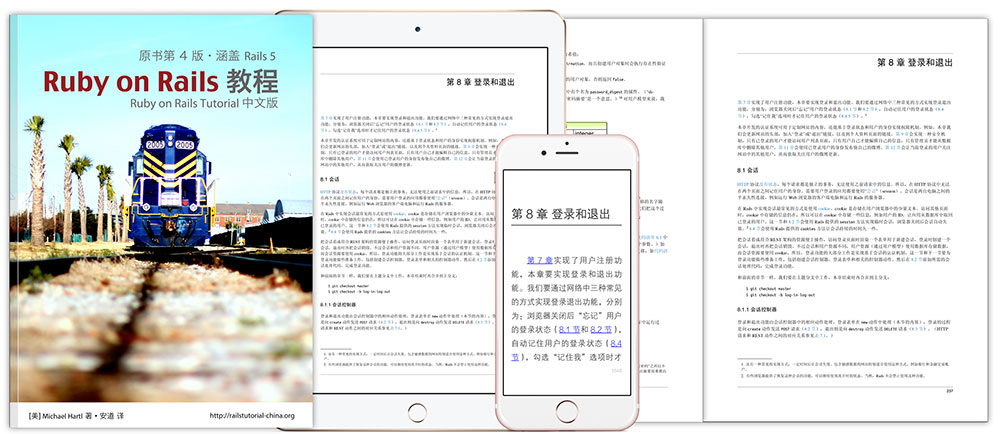
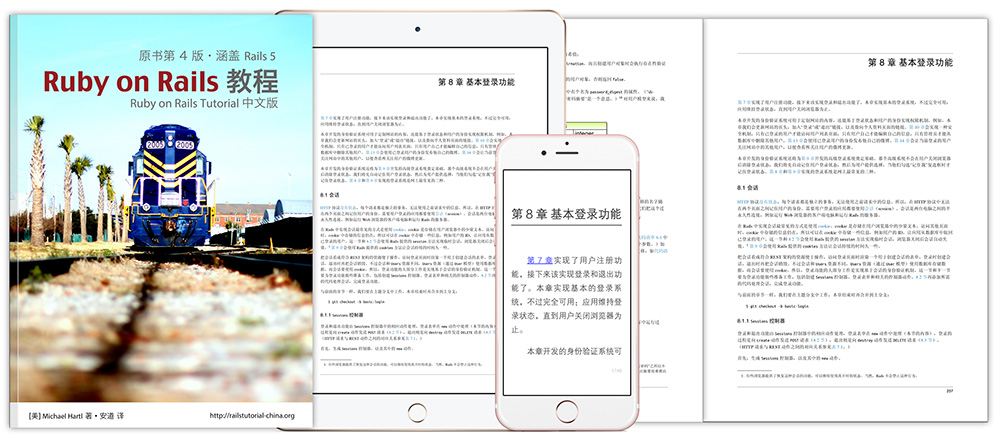
Prepare for 4th edition

diff --git a/_includes/toc.html b/_includes/toc.html
@@ -4,7 +4,7 @@
         <div class="col-xs-12 col-sm-6">
             <ul>
                 <li>
-                    <h3>第 1 章 从零开始,完成一次部署</h3>
+                    <h3>第 1 章 从零开始，完成一次部署</h3>
                     <p>搭建 Rails 开发环境，介绍 Git 用法，体验从创建到部署的全过程。</p>
                 </li>
                 <li>
@@ -13,7 +13,7 @@
                 </li>
                 <li>
                     <h3>第 3 章 基本静态的页面</h3>
-                    <p>从静态页面入手，然后添加动态内容，并且初次尝试测试驱动开发。</p>
+                    <p>从静态页面入手，添加简单的动态内容，初次尝试测试驱动开发。</p>
                 </li>
                 <li>
                     <h3>第 4 章 Rails 背后的 Ruby</h3>
@@ -24,8 +24,12 @@
                     <p>使用 Asset Pipeline 增强布局，然后实现用户注册的第一步。</p>
                 </li>
                 <li>
-                    <h3>第 6 章 用户模型</h3>
+                    <h3>第 6 章 用户建模</h3>
                     <p>创建用户模型，学习模型验证，并为用户提供安全的登录密码。</p>
+                </li>
+                <li>
+                    <h3>第 7 章 注册</h3>
+                    <p>在 Rails 中使用表单注册用户，处理注册成功和失败两种情况。</p>
                 </li>
             </ul>
         </div>
@@ -33,27 +37,31 @@
         <div class="col-xs-12 col-sm-6">
             <ul>
                 <li>
-                    <h3>第 7 章 注册</h3>
-                    <p>在 Rails 中使用表单注册用户，处理注册成功和失败两种情况。</p>
+                    <h3>第 8 章 基本登录功能</h3>
+                    <p>使用 Rails 会话实现登录和退出功能，用户关闭浏览器后自动退出。</p>
                 </li>
                 <li>
-                    <h3>第 8 章 登录和退出</h3>
-                    <p>使用 Rails 会话实现登录、退出，以及记住登录状态功能。</p>
+                    <h3>第 9 章 高级登录功能</h3>
+                    <p>实现持久会话，让浏览器记住登录状态，关闭浏览器后依然有效。</p>
                 </li>
                 <li>
-                    <h3>第 9 章 更新,显示和删除用户</h3>
-                    <p>更新用户的个人资料，限制用户能执行的操作，再实删除功能。</p>
+                    <h3>第 10 章 更新，显示和删除用户</h3>
+                    <p>更新用户的个人资料，限制用户能执行的操作，再实删除用户功能。</p>
                 </li>
                 <li>
-                    <h3>第 10 章 账户激活和密码重设</h3>
-                    <p>使用 Rails 的邮件程序发送账户激活和密码重设邮件。</p>
+                    <h3>第 11 章 账户激活</h3>
+                    <p>使用 Rails 的邮件程序发送账户激活邮件，激活用户的账户。</p>
                 </li>
                 <li>
-                    <h3>第 11 章 用户的微博</h3>
+                    <h3>第 12 章 重设密码</h3>
+                    <p>使用 Rails 的邮件程序发送重设密码邮件，重新设定用户的密码。</p>
+                </li>
+                <li>
+                    <h3>第 13 章 用户的微博</h3>
                     <p>创建微博模型，将其关联到用户模型上，并实现微博相关的操作。</p>
                 </li>
                 <li>
-                    <h3>第 12 章 关注用户</h3>
+                    <h3>第 14 章 关注用户</h3>
                     <p>实现社交网站的核心功能——关注，进一步学习 Rails 模型关联。</p>
                 </li>
             </ul>

diff --git a/_includes/faq.html b/_includes/faq.html
@@ -34,7 +34,7 @@
                 </li>
                 <li>
                     <h3>这本书有附带的源码吗？在哪里下载？</h3>
-                    <p>本书附带的源码托管在 GitHub 中，仓库名为 <a href="https://bitbucket.org/{{ site.repo_name }}" title="附带源码" target="_blank">{{ site.repo_name }}</a>。</p>
+                    <p>本书附带的源码托管在 Bitbucket 中，仓库名为 <a href="https://bitbucket.org/{{ site.repo_name }}" title="附带源码" target="_blank">{{ site.repo_name }}</a>。</p>
                 </li>
                 <li>
                     <h3>我可以把自己购买的电子书分享给别人吗？</h3>
@@ -42,7 +42,7 @@
                 </li>
                 <li>
                     <h3>阅读这本书的过程中遇到问题怎么办？</h3>
-                    <p>如果您遇到问题，可以在本书的<a href="{{ site.selfstore_url }}/topics" title="{{ site.title }}讨论区" target="_blank">讨论区</a>发帖，我会尽量帮您解决。</p>
+                    <p>如果您遇到问题，可以在本书的<a href="{{ site.selfstore_url }}/topics" title="{{ site.title }}讨论区" target="_blank">讨论区</a>发帖，我会尽量帮您解决。此外也可以到 <a href="https://ruby-china.org" title="Ruby China" target="_blank">Ruby China</a> 发帖，寻求更多人的帮助。</p>
                 </li>
             </ul>
         </div>

diff --git a/index.html b/index.html
@@ -6,7 +6,7 @@ body_class: home-page
 <section id="banner" class="row banner">
     <div class="col-xs-12 text-xs-center">
         <h1 class="book-title">Ruby on Rails 教程<span class="book-edition">（原书第 4 版）</span></h1>
-        <p class="book-subtitle">通过 Rails 学习 Web 开发</p>
+        <p class="book-subtitle">通过 Rails 5 学习 Web 开发</p>
     </div>
 </section>
 
@@ -17,9 +17,9 @@ body_class: home-page
         </div>
 
         <div class="formats">
-            <img src="{{ site.baseurl }}/assets/images/pdf.png" width="60" alt="PDF" title="PDF 格式" />
-            <img src="{{ site.baseurl }}/assets/images/epub.png" width="60" alt="ePub" title="ePub 格式" />
-            <img src="{{ site.baseurl }}/assets/images/mobi.png" width="60" alt="mobi" title="mobi 格式" />
+            <img src="{{ site.baseurl }}/assets/images/pdf.png" width="45" alt="PDF" title="PDF 格式" />
+            <img src="{{ site.baseurl }}/assets/images/epub.png" width="45" alt="ePub" title="ePub 格式" />
+            <img src="{{ site.baseurl }}/assets/images/mobi.png" width="45" alt="mobi" title="mobi 格式" />
         </div>
 
         <p><strong>第 4 版修订中，现在可先购买第 3 版，届时可以免费升级到第 4 版</strong></p>

diff --git a/_includes/footer.html b/_includes/footer.html
@@ -4,11 +4,11 @@
   <footer class="footer">
     <div class="container">
       <p>&copy;2013-{{ site.time | date: '%Y'}} <a href="http://about.ac" title="安道的个人网站" target="_blank">安道</a></p>
+      <p>保留部分权利</p>
       <p>
         <a href="https://twitter.com/{{ site.twitter }}" title="在 Twitter 中关注 @andor_chen"  target="_blank"><i class="icon-twitter"></i></a>
         <a href="http://weibo.com/andor27" title="在微博中关注 @andor_chen"  target="_blank"><i class="icon-weibo"></i></a>
       </p>
-      <p>保留部分权利</p>
     </div>
   </footer>
 
